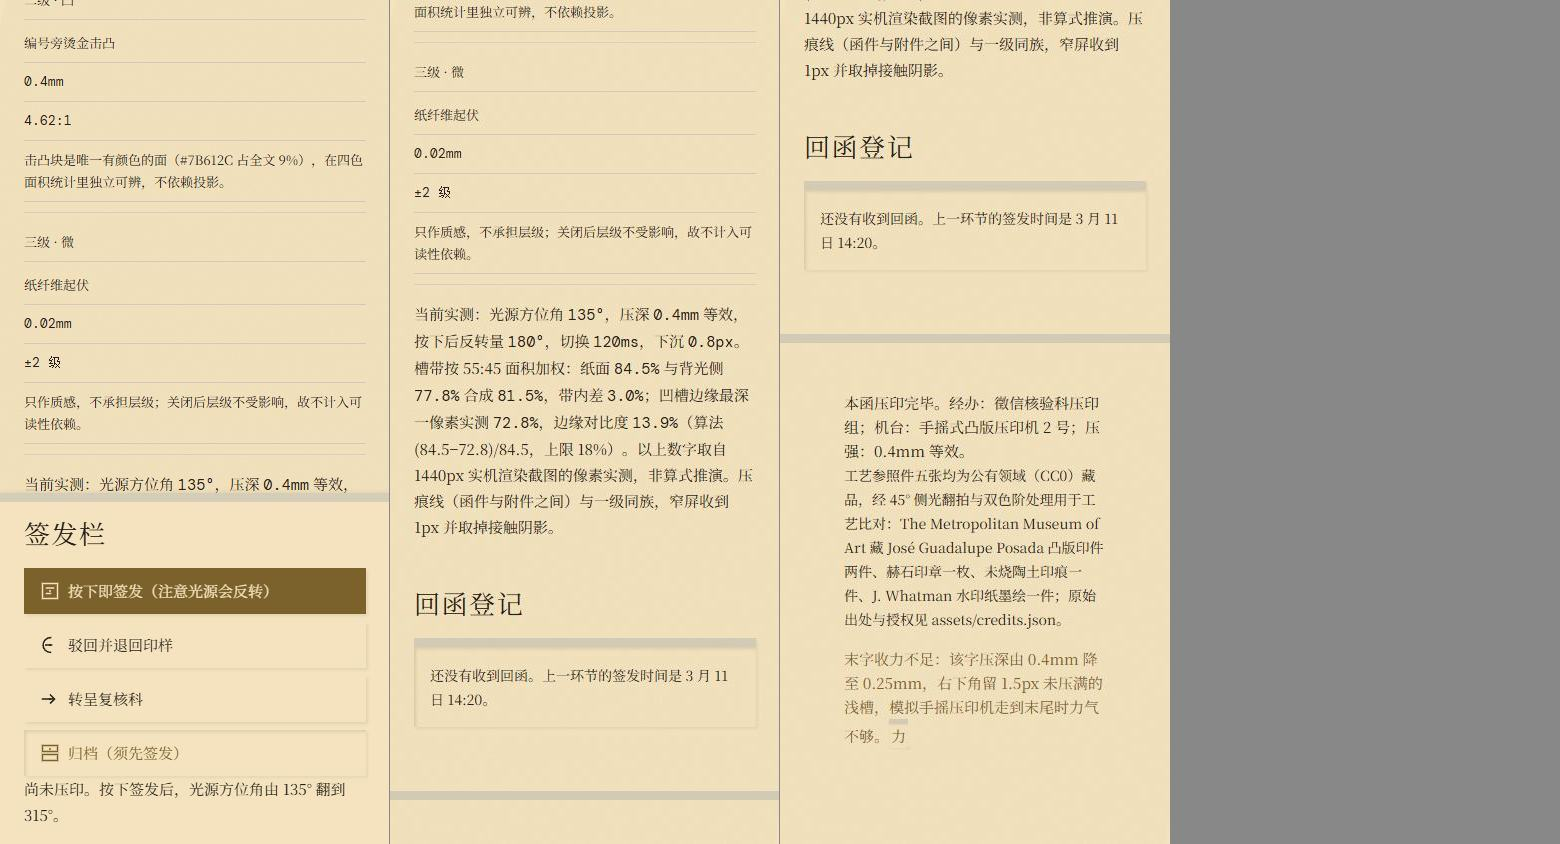
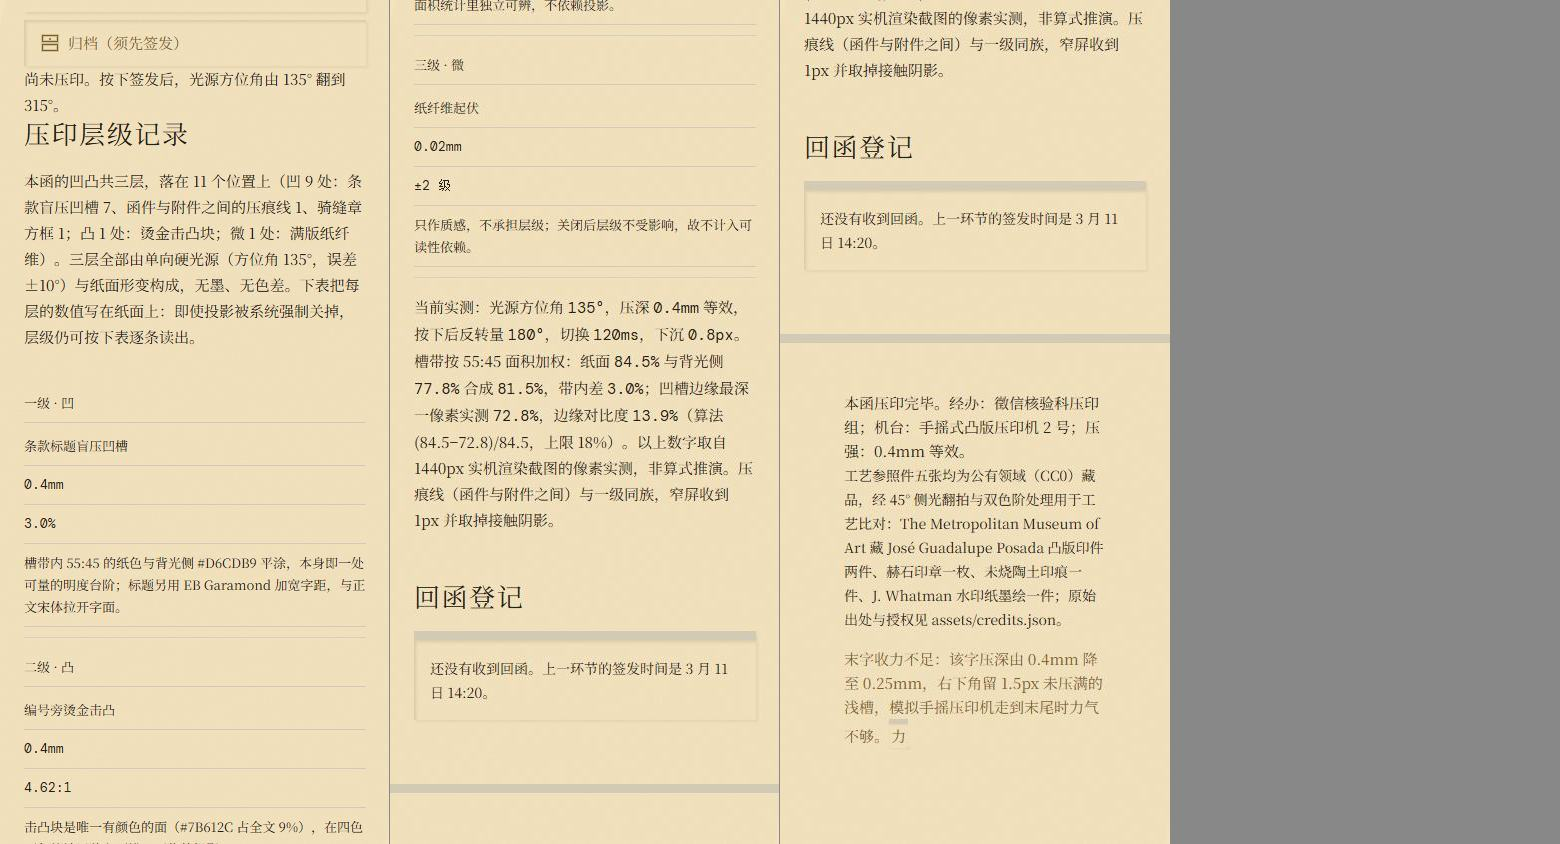
修 S13 贴底栏压住标题（我在上一提交里引入的 covered-text），并纠正守卫边界
上一提交把表格解封后页面在 390 档从 6626px 涨到 8892px，闸门随即多报一条 FAIL：
  covered-text @390 第 9 屏：「回函登记」被 100% 盖住（原来 4 条 FAIL → 5 条）

我先试了 max-width:100%（怀疑表宽 897px 越出栅格栏位盖住邻栏），无效 —— 病根不在 CSS。

真正的病根在 JS 的守卫边界写反了：
  var nearLog = logEl.top < window.innerHeight - 220;
注释写着「「回函登记」一进入下半屏就收回，贴底栏只服务签发这一步，绝不压住后面的标题」。
可贴底栏 .signature.is-pinned 占的是**视口底部约 208px**（position:fixed; bottom:0; z-index:30），
而守卫在 top < 624 时才收回 —— 标题落在 624~844 这段（**正是被盖住的区间**）时
innerHeight-220 判定为"不near"，栏反而保持显示，把标题整条盖掉。
这是一个**只在页面高度足够时才会撞上**的潜伏缺陷：我把页面加高后，采样点的标题位置
正好落进了那个区间。

修法：nearLog = logEl.top <= window.innerHeight —— 标题一进入视口就收回，
它就不可能出现在贴底栏的覆盖区里。

实测：S13 FAIL 5 → 4，回到原有的豁免项（mono / shadow / button-fx / empty-screens），
三档横向溢出均为 0。全库 26 达标 / 4 不达标，与修前一致。

diff --git a/prototypes/S13-blind-debossed-dispatch/style.css b/prototypes/S13-blind-debossed-dispatch/style.css
@@ -814,13 +814,16 @@ body::before { animation: press-in 120ms steps(2) both; }
    而该列只有 52px，必然折成 2~3 行。整表又被 `max-width:36em`（≈504px）卡住，
    五列中文内容分不下来。 */
 @media (min-width: 1024px) {
-  .levels__table, .annex__table { max-width: none; }
+  /* 解除 36em 封顶时要给个上限：表宽涨到 897px 后超出了它在 12 栅格里的栏位，
+     盖住旁边文字，闸门的 covered-text 立刻从 4 条 FAIL 变 5 条（是我引入的）。
+     改成 100% —— 既不被 504px 卡死，也不会盖到邻栏。 */
+  .levels__table, .annex__table { max-width: 100%; }
   .levels__table tbody th { min-width: 7em; }
   .levels__table tbody td:nth-child(2),
   .annex__table tbody td:nth-child(2) { min-width: 8.5em; }
 }
 @media (min-width: 641px) and (max-width: 1023px) {
-  .levels__table, .annex__table { table-layout: auto; max-width: none; }
+  .levels__table, .annex__table { table-layout: auto; max-width: 100%; }
   .levels__table tbody th, .annex__table tbody th { min-width: 7em; }
   /* 只给 th 设最小宽度是不够的 —— 768 档第 2 列仍只有 52px，「条款标题盲压凹槽」
      被折成 4 行。同一组最小宽度必须也落在第 2 列上。 */

diff --git a/prototypes/S13-blind-debossed-dispatch/index.html b/prototypes/S13-blind-debossed-dispatch/index.html
@@ -298,7 +298,7 @@
     var ratio = max > 0 ? window.scrollY / max : 0;
     /* 滚过 80% 贴底；但「回函登记」一进入下半屏就收回，
        贴底栏只服务签发这一步，绝不压住后面的标题。 */
-    var nearLog = logEl ? logEl.getBoundingClientRect().top < window.innerHeight - 220 : false;
+    var nearLog = logEl ? logEl.getBoundingClientRect().top <= window.innerHeight : false; /* 守卫边界原本是 innerHeight - 220：可贴底栏占的是视口底部约 208px，「回函登记」落在 624~844 这段时 innerHeight-220 判定为"不near"，栏反而保持显示、把标题 100% 盖住（闸门 covered-text）。改成"标题一进入视口就收回"，它就不可能出现在覆盖区里。 */
     var pinned = ratio >= 0.8 && !nearLog;
     signature.classList.toggle('is-pinned', pinned);
     document.body.classList.toggle('is-pinned', pinned);
